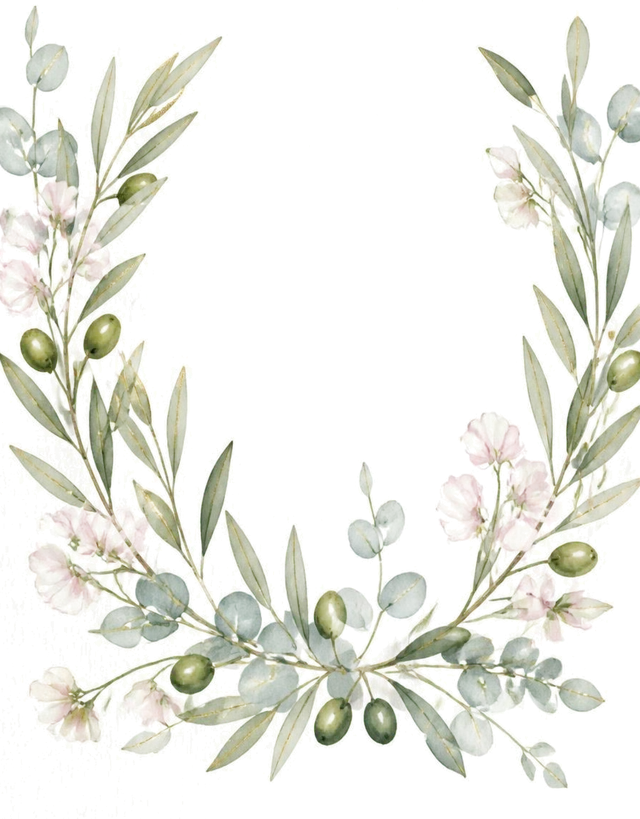
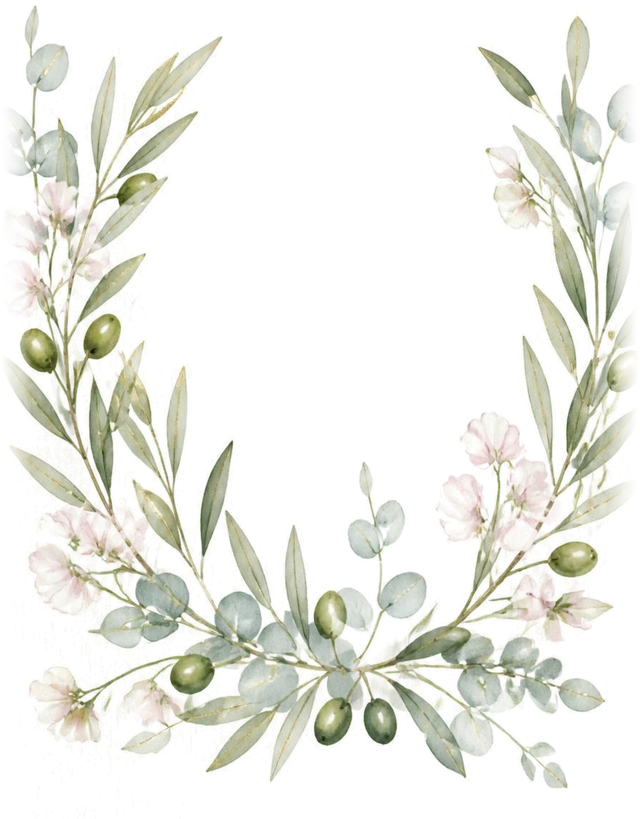
feat(intl): metadata tests, occasion-aware share titles, Olive Grove stills, ?debug&occasion= preview

diff --git a/server/test/markets.test.js b/server/test/markets.test.js
@@ -1,0 +1,72 @@
+// Design metadata (src/core/markets.js, server/lib/catalog.js): market, style and occasions per design, the manifest
+// override, and the invitation's optional occasion (one-person occasions publish with one name).
+// Run: npm test (in server/).
+import { test } from 'node:test';
+import assert from 'node:assert/strict';
+import { mkdtempSync } from 'node:fs';
+import { tmpdir } from 'node:os';
+import { join } from 'node:path';
+
+process.env.DATA_ROOT ||= mkdtempSync(join(tmpdir(), 'nimtto-markets-'));
+
+const { MARKETS, STYLES, OCCASIONS, isOccasion, isCoupleOccasion, inMarket } = await import('../../src/core/markets.js');
+const { listThemes, catalogMeta, metaOf } = await import('../lib/catalog.js');
+const { loadManifest } = await import('../lib/slots.js');
+const { sanitizeInvitation, publishProblems, ValidationError } = await import('../lib/validate.js');
+const { config: demo } = await import('../../src/config.js');
+
+test('every listed design carries a valid market, style and occasions', () => {
+  const list = listThemes();
+  assert.ok(list.length > 20);
+  for (const t of list) {
+    assert.ok(MARKETS.includes(t.market), `${t.slug} market`);
+    assert.ok(t.style === '' || STYLES.includes(t.style), `${t.slug} style`);
+    assert.ok(Array.isArray(t.occasions) && t.occasions.length && t.occasions.every(isOccasion), `${t.slug} occasions`);
+  }
+  // the Nepal designs default to a Nepal wedding design
+  assert.deepEqual(catalogMeta('mala'), { market: 'np', style: '', occasions: ['wedding'] });
+  const og = list.find((t) => t.slug === 'olive-grove');
+  assert.ok(og, 'olive-grove is listed');
+  assert.equal(og.market, 'intl');
+  assert.equal(og.style, 'garden');
+  assert.ok(og.occasions.includes('wedding'));
+});
+
+test('a manifest overrides the catalog only with valid values', () => {
+  assert.deepEqual(metaOf('mala', { market: 'both', style: 'classic', occasions: ['wedding', 'nope', 'birthday'] }),
+    { market: 'both', style: 'classic', occasions: ['wedding', 'birthday'] });
+  assert.deepEqual(metaOf('mala', { market: 'mars', style: 'loud', occasions: ['nope'] }), catalogMeta('mala'));
+  // catalogMeta hands out copies
+  catalogMeta('olive-grove').occasions.push('x');
+  assert.ok(!catalogMeta('olive-grove').occasions.includes('x'));
+});
+
+test('the olive-grove manifest declares its market and is faith-neutral', async () => {
+  const m = await loadManifest('olive-grove');
+  assert.equal(m.market, 'intl');
+  assert.equal(m.style, 'garden');
+  assert.deepEqual([...m.religions].sort(), ['christian', 'hindu', 'muslim', 'other']);
+  for (const id of ['hero.kicker', 'hero.line', 'rsvp.title', 'count.done']) assert.ok(m.texts[id], id);
+});
+
+test('markets helpers', () => {
+  assert.ok(inMarket('both', 'intl') && inMarket('both', 'np') && inMarket('intl', 'intl') && !inMarket('np', 'intl'));
+  assert.ok(isCoupleOccasion(undefined) && isCoupleOccasion('wedding') && !isCoupleOccasion('birthday'));
+  assert.ok(Object.keys(OCCASIONS).includes('baby-shower'));
+});
+
+test('an invitation may name its occasion; one-person occasions publish with one name', () => {
+  const base = { theme: 'dhoka', couple: structuredClone(demo.couple), weddingDate: demo.weddingDate, events: demo.events.map(({ id, title, start, end }) => ({ id, title, start, end })) };
+  base.couple.portraits = [];
+  const wedding = sanitizeInvitation(base, 'occ-test');
+  assert.equal(wedding.occasion, undefined); // the default is not stored
+  const bday = sanitizeInvitation({ ...base, occasion: 'birthday' }, 'occ-test');
+  assert.equal(bday.occasion, 'birthday');
+  assert.throws(() => sanitizeInvitation({ ...base, occasion: 'coronation' }, 'occ-test'), ValidationError);
+
+  bday.couple.groom.name = { en: '', ne: '' };
+  assert.deepEqual(publishProblems(bday).filter((p) => /name/i.test(p)), []);
+  const wed = structuredClone(wedding);
+  wed.couple.groom.name = { en: '', ne: '' };
+  assert.ok(publishProblems(wed).includes("The groom's name"));
+});

diff --git a/server/lib/share.js b/server/lib/share.js
@@ -6,6 +6,7 @@ import { PUBLIC_ORIGINS } from './env.js';
 import { photoUrl } from './invitations.js';
 import { VERSIONS, TITLE, isReligion } from '../../src/core/faith.js';
 import { DEMO_PEOPLE_PHOTOS, DEMO_SHARE } from './demo.js';
+import { OCCASIONS, isOccasion } from '../../src/core/markets.js';
 
 const NEUTRAL_IMAGE = '/art/og.jpg'; // public/art/og.jpg: hands joined at a wedding (no names, no faces)
 
@@ -24,8 +25,10 @@ export function shareInfo(inv, req, slug) {
   const real = (s) => (typeof s === 'string' && s.trim() && !DEMO_SHARE.has(s.trim()) ? s.trim() : '');
   const nm = (p) => real(p?.name?.en) || real(p?.name?.ne);
   const names = [nm(inv.couple?.bride), nm(inv.couple?.groom)].filter(Boolean).join(' & ');
-  const title = real(inv.share?.title) || (names ? `${names} · ${TITLE[isReligion(inv.religion) ? inv.religion : 'hindu'].en}` : 'Wedding invitation · Nimtto');
-  const description = real(inv.share?.description) || 'You are warmly invited to our wedding.';
+  // another occasion (a birthday, a baby shower …; src/core/markets.js) never reads "wedding"
+  const occ = inv.occasion && inv.occasion !== 'wedding' && isOccasion(inv.occasion) ? OCCASIONS[inv.occasion].en : '';
+  const title = real(inv.share?.title) || (names ? `${names} · ${occ || TITLE[isReligion(inv.religion) ? inv.religion : 'hindu'].en}` : occ ? `${occ} invitation · Nimtto` : 'Wedding invitation · Nimtto');
+  const description = real(inv.share?.description) || (occ ? 'You’re warmly invited.' : 'You are warmly invited to our wedding.');
   const portrait = (inv.couple?.portraits || []).find((p) => p?.photo && !(typeof p.photo === 'string' && DEMO_PEOPLE_PHOTOS.has(p.photo)))?.photo;
   let img = photoUrl(inv.share?.image) || photoUrl(portrait);
   // No photo of their own yet: a neutral picture (joined hands), never the design's thumbnail (it shows the demo couple).

diff --git a/src/themes/olive-grove/main.js b/src/themes/olive-grove/main.js
@@ -111,9 +111,9 @@ const SPEC = {
     </section>` : '';
 
     const hosts = `
-    <section class="og-sec og-hosts" id="card" aria-labelledby="hosts-h">
+    <section class="og-sec og-hosts" id="card" aria-label="${esc(txt('card.button').en)}">
       <div class="og-hosts__in vw-rise">
-        <p class="og-eyebrow" id="hosts-h">${bi(txt('families.title'))}</p>
+        ${P.hosts || P.families.some((f) => on(f.person.parents)) ? `<p class="og-eyebrow">${bi(txt('families.title'))}</p>` : ''}
         ${P.hosts ? `<p class="og-hosts__names">${bi(P.hosts)}</p>` : ''}
         ${P.families.length ? `<p class="og-hosts__fam">${P.families.map((f) => (on(f.person.parents) ? `<span>${bi(f.person.parents)}</span>` : '')).filter(Boolean).join('<i aria-hidden="true">·</i>')}</p>` : ''}
         ${P.cardBtn('vw-btn--line')}

diff --git a/src/themes/_vow/vow.js b/src/themes/_vow/vow.js
@@ -57,7 +57,10 @@ export async function mountVow(T) {
   await loadInvitation();
   // demo pages show this design's own American demo instead of the Nepali couple
   if (isDemoPage() && T.demo) {
-    const next = intlDemo(T.demo, config);
+    // ?debug&occasion=birthday: try the design with another occasion's words (one name unless the occasion is a couple's)
+    const occ = params.has('debug') ? params.get('occasion') : null;
+    const demo = occ ? { ...T.demo, occasion: occ, groom: isCoupleOccasion(occ) ? T.demo.groom : '', eventTitle: T.demo.eventTitle || 'The celebration' } : T.demo;
+    const next = intlDemo(demo, config);
     for (const k of Object.keys(config)) delete config[k];
     Object.assign(config, next);
     setTimeZone(config.timeZone);

diff --git a/src/themes/olive-grove/olive.css b/src/themes/olive-grove/olive.css
@@ -64,7 +64,7 @@ body.vw-single .og-names { font-size: clamp(60px, 17vw, 128px); }
   .og-names { justify-content: flex-start; font-size: clamp(76px, 7.6vw, 124px); flex-direction: column; align-items: flex-start; }
   .og-names em { margin-left: 0.5em; }
   .og-hero__line { max-width: 26ch; }
-  .og-hero__wreath { align-self: center; justify-self: start; width: min(600px, calc((100svh - 110px) * 0.78)); }
+  .og-hero__wreath { align-self: center; justify-self: start; width: min(600px, 100%, calc((100svh - 110px) * 0.78)); min-width: 0; }
   .og-hero__date { top: 14%; }
   .og-hero__day { font-size: clamp(64px, 6vw, 92px); }
 }
